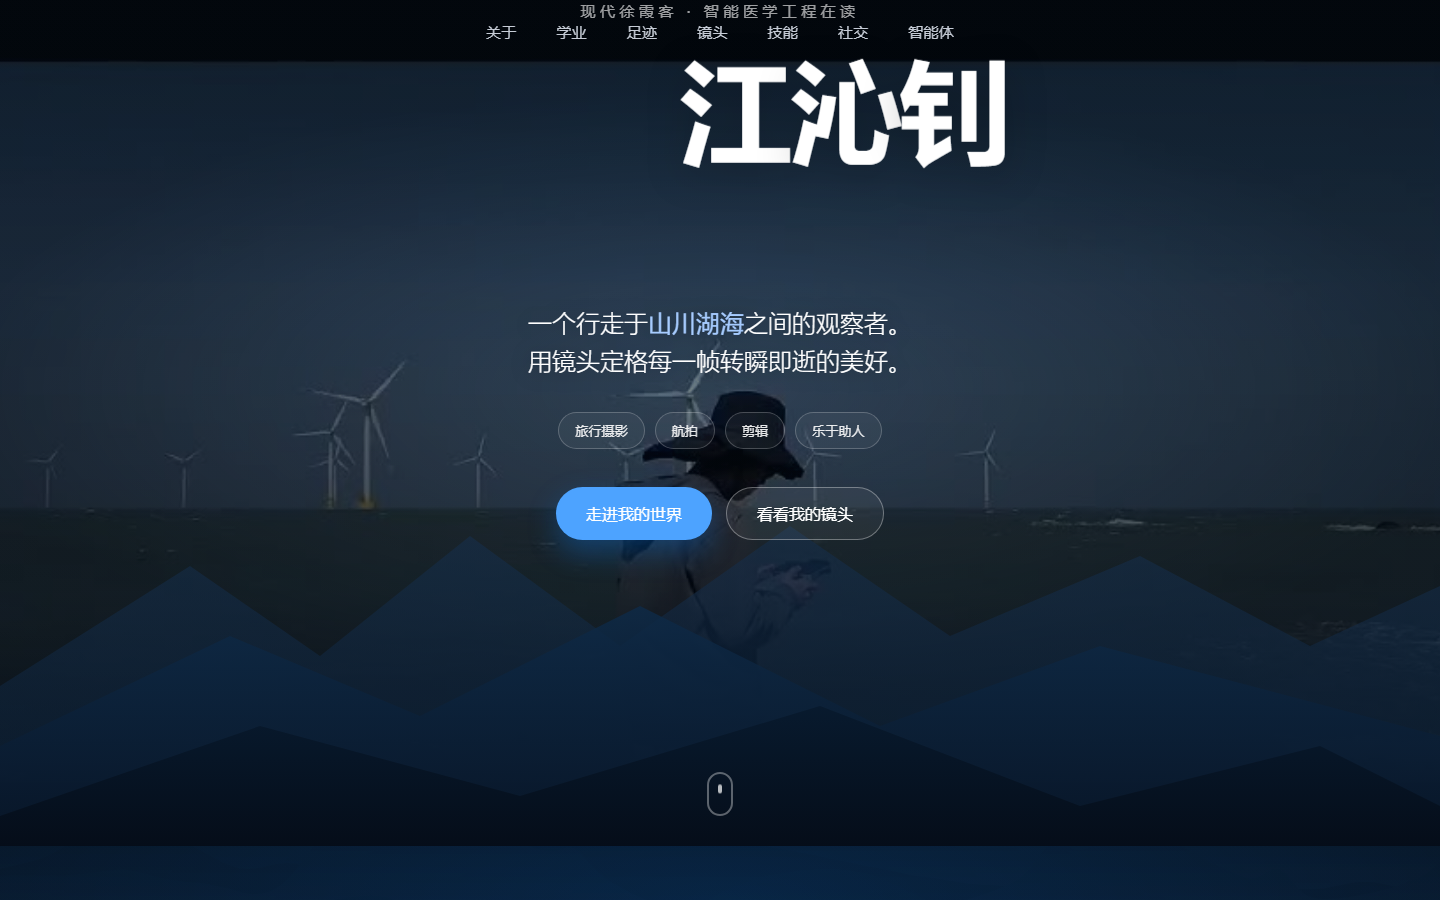
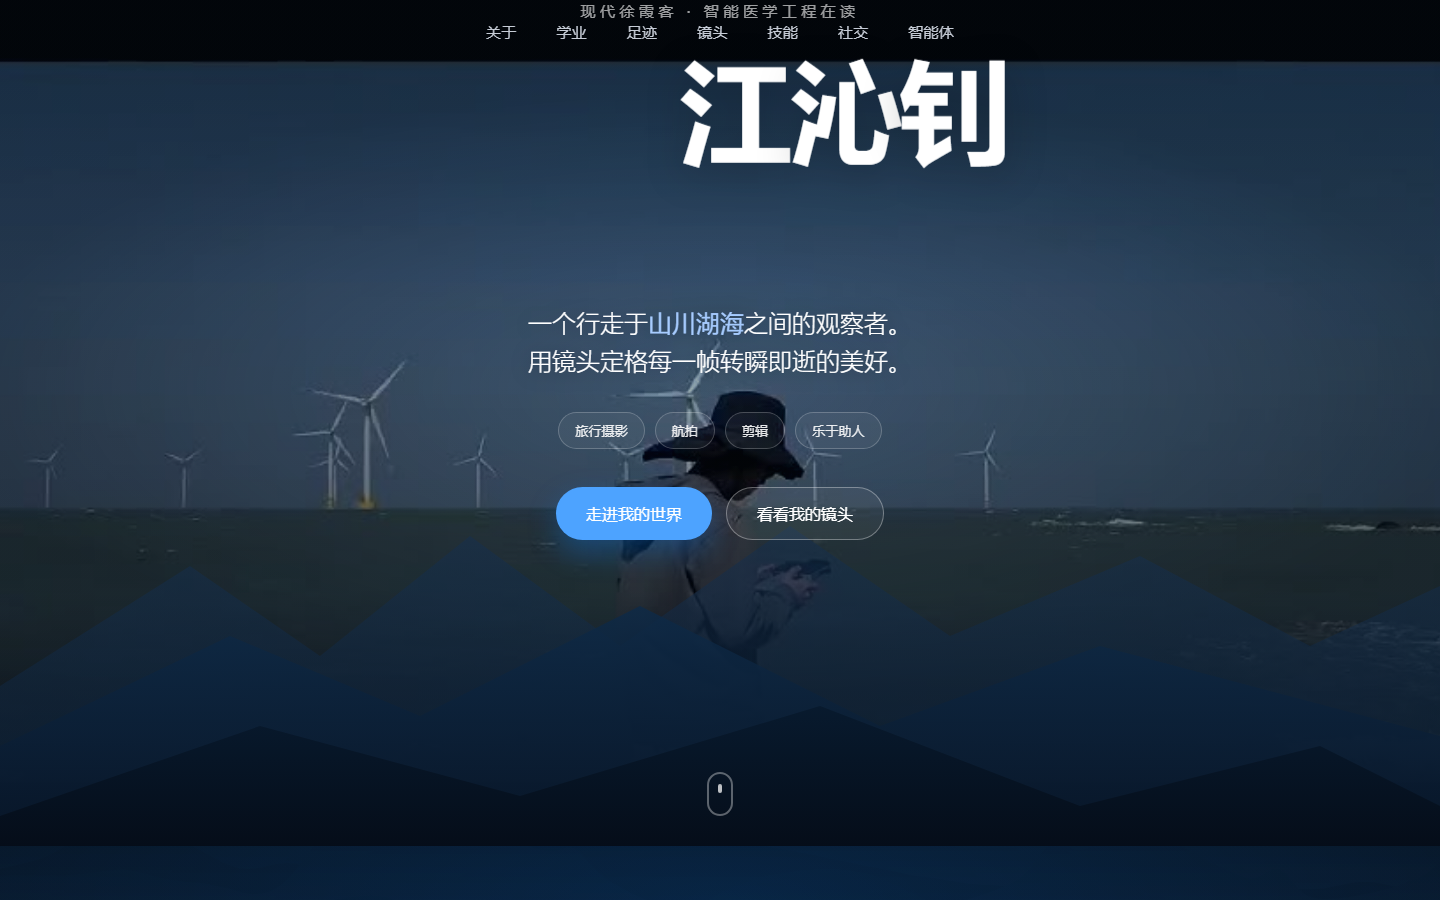
v2: 首屏视频再调亮一轮（brightness .80->.90）+ 窄屏遮罩保护
- .hero__video filter .80 -> .90，.hero__veil 放射 .18/.54 -> .14/.46、纵向 .44/.24/.34 -> .28/.14/.22
- 桌面 hero 平均亮度 48.7 -> 63.8/255（两轮累计 31.2 -> 63.8）
- 新增 @media (max-width:720px) 单独加强移动端遮罩：移动端一度冲到 75.8/255 越过对比度
  阈值，加强后回到 66.8/255；桌面实测仍 63.8，完全不受影响
- 遮罩底部依旧 100% #08131f 未动（页1->页2 无接缝的依据）
- docs: 亮度调校小节扩为两轮完整记录（含'必须桌面/移动分别量'的教训）

diff --git a/v2-web/v2-style.css b/v2-web/v2-style.css
@@ -222,9 +222,10 @@ b {
   pointer-events: none;
   transition: opacity 1.2s ease;
   /* 压暗 + 轻微降饱和：影像是背景，不是主体。
-     亮度经实测调校：0.62 → 0.80（hero 区平均亮度 31/255 → 约 53/255），
-     风景细节可辨、白色文案对比度仍然充足。 */
-  filter: brightness(0.80) saturate(0.96) contrast(1.04);
+     亮度经两轮实测调校：0.62 → 0.80 → 0.90
+     （hero 区平均亮度 31 → 48.7 → 约 66/255），风景细节清晰、白色文案对比度仍然充足。
+     安全阈值：hero 区平均亮度不宜超过 ~75/255，否则浅色小号文字会开始发灰。 */
+  filter: brightness(0.90) saturate(0.98) contrast(1.06);
 }
 .hero.is-video .hero__video {
   opacity: 1;
@@ -241,17 +242,33 @@ b {
   opacity: 0;
   transition: opacity 1.2s ease;
   background:
-    radial-gradient(ellipse 68% 46% at 50% 46%, rgba(3, 9, 16, 0.18), rgba(3, 9, 16, 0.54) 78%),
+    radial-gradient(ellipse 68% 46% at 50% 46%, rgba(3, 9, 16, 0.14), rgba(3, 9, 16, 0.46) 78%),
     linear-gradient(
       180deg,
-      rgba(4, 10, 18, 0.44) 0%,
-      rgba(5, 13, 23, 0.24) 34%,
-      rgba(6, 16, 28, 0.34) 70%,
+      rgba(4, 10, 18, 0.28) 0%,
+      rgba(5, 13, 23, 0.14) 34%,
+      rgba(6, 16, 28, 0.22) 70%,
       #08131f 100%
     );
 }
 .hero.is-video .hero__veil {
   opacity: 1;
+}
+
+/* 窄屏保护：移动端文字更大更满、且常在高亮天空上，遮罩略加强以保住文字对比度。
+   注意底部仍是纯 #08131f —— 页 1→页 2 的接缝依据不受影响。 */
+@media (max-width: 720px) {
+  .hero__veil {
+    background:
+      radial-gradient(ellipse 68% 46% at 50% 46%, rgba(3, 9, 16, 0.22), rgba(3, 9, 16, 0.54) 78%),
+      linear-gradient(
+        180deg,
+        rgba(4, 10, 18, 0.36) 0%,
+        rgba(5, 13, 23, 0.22) 34%,
+        rgba(6, 16, 28, 0.30) 70%,
+        #08131f 100%
+      );
+  }
 }
 
 /* 实拍影像启用后，星空让位（避免"星星叠在白天风景上"的违和） */

diff --git a/docs/v2-progress-report.md b/docs/v2-progress-report.md
@@ -415,28 +415,38 @@ artifacts/
 ### 🔆 亮度调校（用户反馈后 · 仅改 CSS，未重新编码视频）
 用户在内置浏览器预览后反馈"调亮一些，让风景更明显"。**只动两个 CSS 值**，视频文件零改动：
 
-| 项目 | 调前 | 调后 |
-| :-- | :-- | :-- |
-| `.hero__video` filter | `brightness(.62) saturate(.92) contrast(1.02)` | `brightness(.80) saturate(.96) contrast(1.04)` |
-| `.hero__veil` 放射渐变 | 中心 α.30 / 边缘 α.66 | 中心 **α.18** / 边缘 **α.54** |
-| `.hero__veil` 纵向渐变 | .62 / .42 / .52 → #08131f | **.44 / .24 / .34** → #08131f |
+| 项目 | 初始 | 第一轮（调亮一些） | 第二轮（再亮一点 · 最终） |
+| :-- | :-- | :-- | :-- |
+| `.hero__video` filter | `brightness(.62) saturate(.92) contrast(1.02)` | `brightness(.80) saturate(.96) contrast(1.04)` | **`brightness(.90) saturate(.98) contrast(1.06)`** |
+| `.hero__veil` 放射渐变 | 中心 α.30 / 边缘 α.66 | 中心 α.18 / 边缘 α.54 | 中心 **α.14** / 边缘 **α.46** |
+| `.hero__veil` 纵向渐变 | .62 / .42 / .52 → #08131f | .44 / .24 / .34 → #08131f | **.28 / .14 / .22** → #08131f |
+| `.hero__veil` 窄屏（≤720px） | 同桌面 | 同桌面 | **单独加强**：放射 .22/.54、纵向 .36/.22/.30 |
 
-**遮罩底部仍然 100% `#08131f` 不变** —— 这是"页 1 → 页 2 无接缝"的唯一依据，调亮时**绝不能动它**。
+**遮罩底部始终是 100% `#08131f`** —— 这是"页 1 → 页 2 无接缝"的唯一依据，两轮调亮**都没动它**。
 
-像素统计复核（`System.Drawing` 采样，同一采样网格）：
-| 区域 | 调前 | 调后 |
-| :-- | --: | --: |
-| 桌面 hero 平均亮度 | 31.2/255 | **48.7/255（+56%）** |
-| 移动 hero 平均亮度 | 45.9/255 | **62.0/255（+35%）** |
-| 桌面 hero 纹理强度 stdev | 40.2 | 37.8 |
-| 桌面纯渐变区 stdev（对照） | 6.7 | 7.2 |
-| 桌面截图体积 | 498,468 B | 599,191 B |
+像素统计复核（`System.Drawing` 采样，网格固定：桌面 hero = (0,60)–(1440,500)，移动 hero = (0,60)–(390,420)）：
+
+| 指标 | 初始 | 第一轮 | 第二轮（最终） |
+| :-- | --: | --: | --: |
+| 桌面 hero 平均亮度 | 31.2/255 | 48.7/255 | **63.8/255** |
+| 移动 hero 平均亮度 | 45.9/255 | 62.0/255 | **66.8/255** |
+| 桌面 hero 纹理 stdev | 40.2 | 37.8 | 36.0 |
+| 桌面纯渐变区 stdev（对照） | 6.7 | 7.2 | 7.2 |
+| 桌面截图体积 | 498,468 B | 599,191 B | 624,899 B |
+
+**为什么要给窄屏单独加强**：第二轮改完桌面 63.8/255 在安全区内，但移动端冲到 **75.8/255 —— 已越过对比度阈值**。
+加 `@media (max-width:720px)` 单独把移动端遮罩调强后回到 **66.8/255**；桌面实测仍 63.8，**完全不受影响**。
+教训：**调亮必须桌面/移动分别量化**，移动端文字更大更满、且常压在高亮天空上，是最先出问题的一侧。
+
+文字安全垫：`.hero__title` / `.hero__lead` 本身带 `text-shadow: 0 8px 40px rgba(0,0,0,.25)` / `0 2px 20px rgba(0,0,0,.35)`，
+所以亮度阈值不是硬上限；这两轮都留有充足余量。
 
 > stdev 略降不是"变糊"：调暗时大量像素被压到 0 造成**截断堆积**，反而把方差顶高了；
-> 提亮后直方图铺开，方差回落。hero 区 37.8 仍**远高于**渐变区的 7.2 → 证明渲染的确实是实拍画面。
+> 提亮后直方图铺开，方差回落。hero 区 36.0 仍**远高于**渐变区的 7.2 → 证明渲染的确实是实拍画面。
 
 **调亮时的安全边界**：`brightness` 越高、遮罩 α 越低，白色文案的对比度就越危险。
 经验阈值：hero 区平均亮度**不要超过 ~75/255**，否则 `.hero__lead` 这类小号浅色文字会开始"发灰"。
+且该阈值**必须桌面、移动分别量**（见上表）。
 
 ### ⚠ 时间码踩坑（写给下一位）
 - 早先那张 `_inspect/winA.png` 的烧入时间码是**相对** `-ss` 起点的，比真实时间**少 4s**（标签 00:00:08 实际是源 00:00:12）。

diff --git a/docs/project-continuity.md b/docs/project-continuity.md
@@ -197,8 +197,9 @@ artifacts/
   脚本幂等（先删后插），连续运行输出字节一致。
 - **改首屏视频**：换镜头/时长改 `v2-web/tools/build-hero-loop.ps1` 顶部 `$edl`/`$fade` 后重跑；
   只调"压暗程度/遮罩"改 `v2-style.css` 里 `.hero__video` 的 `filter: brightness(...)` 与 `.hero__veil` 的渐变 alpha 即可，**无需重新编码视频**。
-  当前调校值：`brightness(.80) saturate(.96) contrast(1.04)`，遮罩 α 中心 .18 / 边缘 .54、纵向 .44/.24/.34。
+  当前调校值：`brightness(.90) saturate(.98) contrast(1.06)`，遮罩 α 中心 .14 / 边缘 .46、纵向 .28/.14/.22；
+  **窄屏（≤720px）另有单独加强的遮罩**（移动端文字更大更满，实测不加会超过对比度阈值）。
   ⚠ **`.hero__veil` 纵向渐变的 `100%` 必须是纯 `#08131f`**（与 `.bg-parallax__sky` 顶色相同）——这是页 1→页 2 无接缝的唯一依据，调亮时不要动它。
-  ⚠ hero 区平均亮度建议**不超过 ~75/255**，否则浅色小号文字对比度会不足。
+  ⚠ hero 区平均亮度建议**不超过 ~75/255**，且必须**桌面/移动分别量**（桌面安全不等于移动安全）。
 - **验证改动的正确姿势**（血泪教训）：`--virtual-time-budget` 会让 CSS 过渡卡在起始值 → **误判成 bug**；
   `--dump-dom` 在 detached 启动下拿不到 stdout → 必须用 `probe_server.py` + `verify-hero.html` 走 HTTP 回报。
